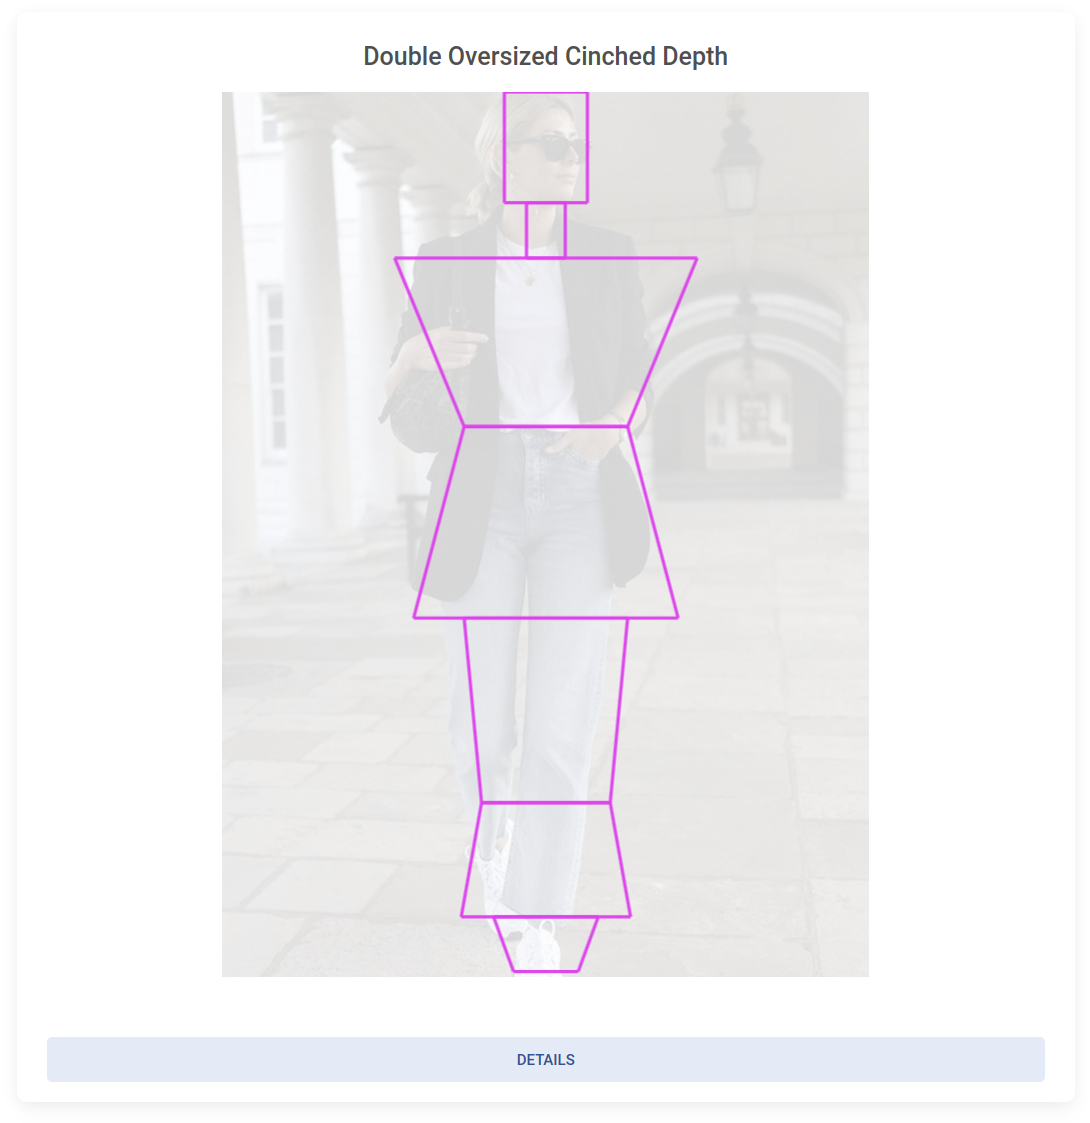
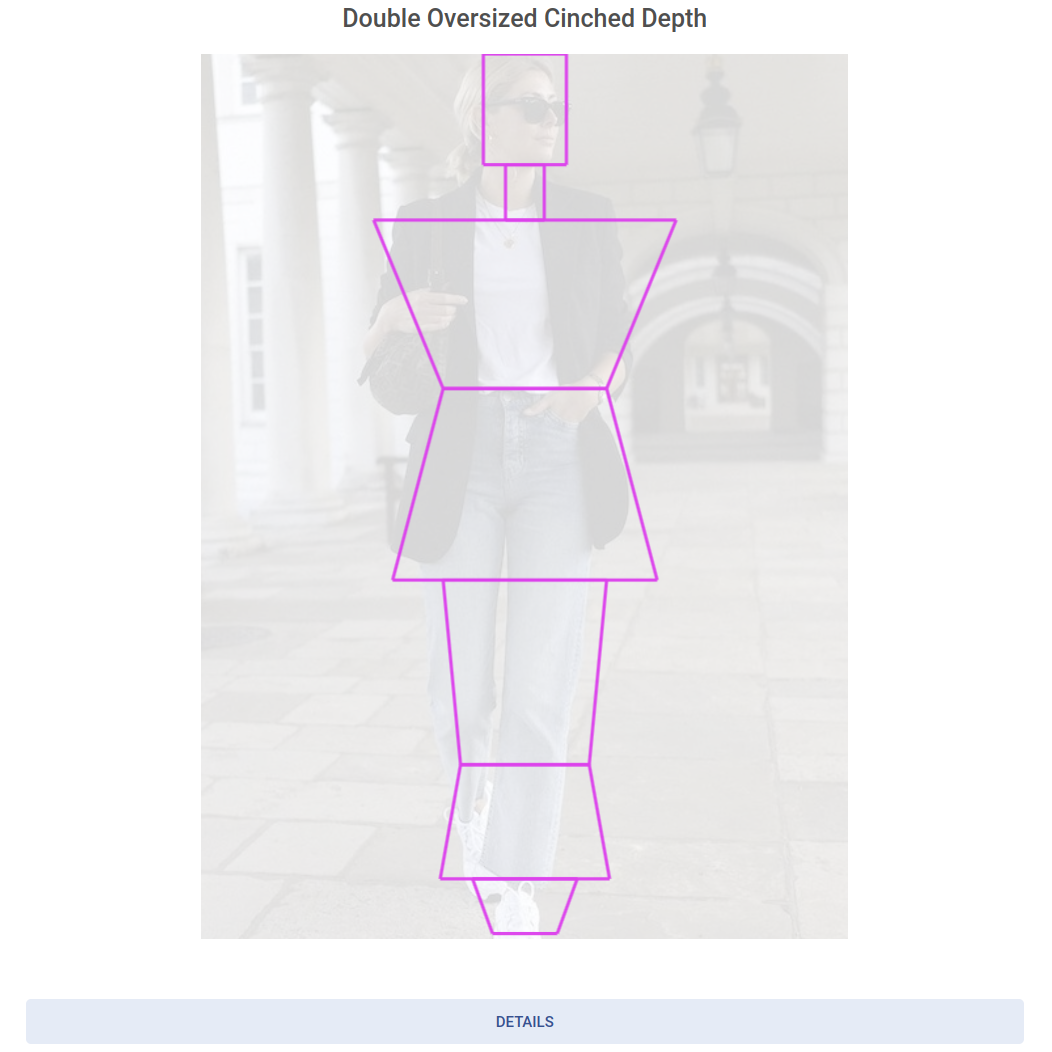
Standardize aspect ratio on Card pictures. ContentRow title formatting

diff --git a/pages/featured.jsx b/pages/featured.jsx
@@ -17,7 +17,7 @@ function FeaturedPage() {
         <main role="main" className="col-md-12 ms-sm-auto col-lg-12 px-md-4">
           <MDBContainer fluid className="mt-4">
             {/* Featured Models Row */}
-            <MDBTypography tag="h2">Featured Stylists</MDBTypography>
+            <MDBTypography tag="h2" className="my-4">Featured Stylists</MDBTypography>
             <ContentRow
               colComponent={StylistCard}
               colData={allStylistsData}
@@ -28,7 +28,7 @@ function FeaturedPage() {
               detailsStartExpanded={true}
             />
             {/* Featured Photos Row */}
-            <MDBTypography tag="h2">Featured Photos</MDBTypography>
+            <MDBTypography  tag="h2" className="my-4">Featured Photos</MDBTypography>
             <ContentRow
               colComponent={PhotoCard}
               colData={allPhotosData}

diff --git a/pages/blog/index.jsx b/pages/blog/index.jsx
@@ -15,7 +15,7 @@ function BlogPage() {
         <main role="main" className="col-md-12 ms-sm-auto col-lg-12 px-md-4">
           <MDBContainer fluid className="mt-4">
             {/* Featured Models Row */}
-            <MDBTypography tag="h2">Featured Articles</MDBTypography>
+            <MDBTypography tag="h2" className="my-4">Featured Articles</MDBTypography>
             <ContentRow
               colComponent={BlogPageCard}
               colData={allBlogPagesData}
